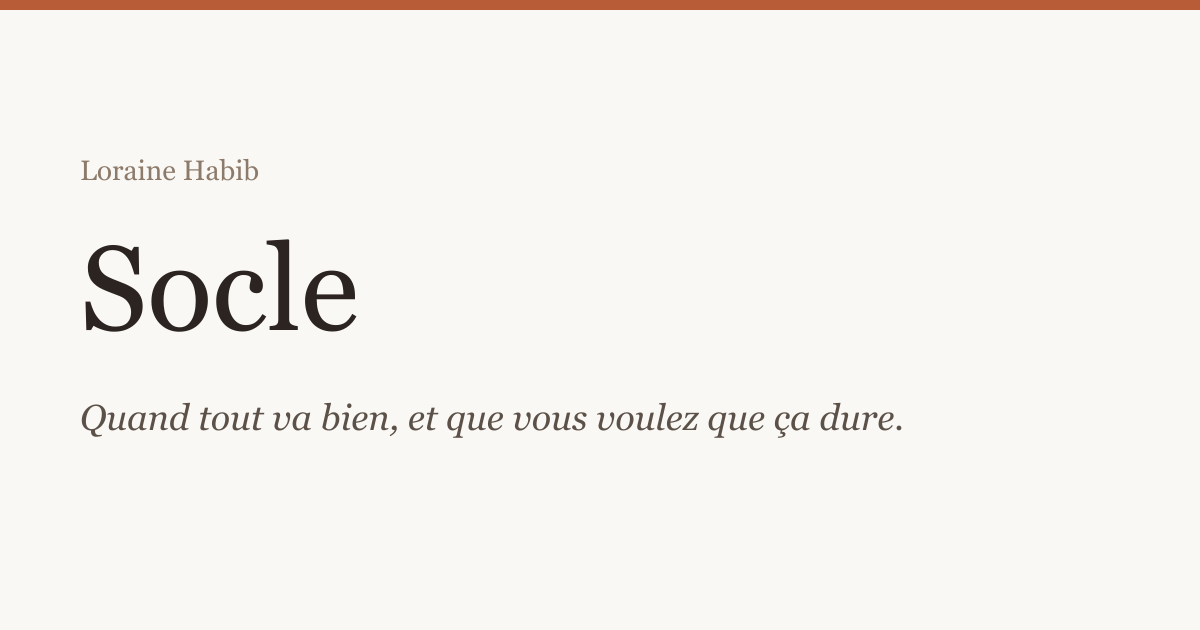
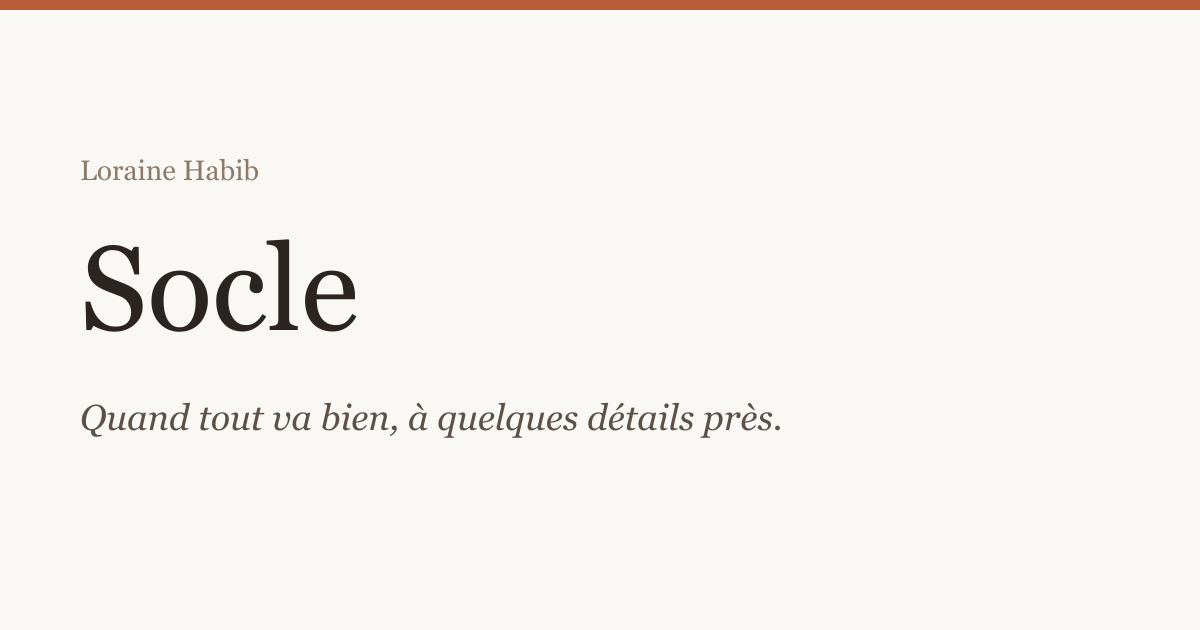
bug fix

Changed region(s): [[0.3392, 0.6333, 0.74, 0.6937]]

diff --git a/src/pages/Offres.tsx b/src/pages/Offres.tsx
@@ -178,17 +178,19 @@ const Offres = () => {
                         </li>
                       ))}
                     </ul>
-                    <div className="mt-auto border-t border-border pt-5">
-                      <p className="whitespace-nowrap font-serif text-[30px] font-normal leading-none text-foreground lining-nums">
-                        {offer.price}
-                      </p>
-                      <p className="mt-2 text-[13px] leading-snug text-muted-foreground lining-nums">{offer.priceNote}</p>
-                      <span className="mt-4 inline-flex items-center gap-2 text-[14px] text-accent">
-                        Voir le détail
-                        <span aria-hidden className="transition-transform duration-300 group-hover:translate-x-0.5">
-                          →
+                    <div className="mt-auto pt-6">
+                      <div className="border-t border-border pt-5">
+                        <p className="whitespace-nowrap font-serif text-[30px] font-normal leading-none text-foreground lining-nums">
+                          {offer.price}
+                        </p>
+                        <p className="mt-2 text-[13px] leading-snug text-muted-foreground lining-nums">{offer.priceNote}</p>
+                        <span className="mt-4 inline-flex items-center gap-2 text-[14px] text-accent">
+                          Voir le détail
+                          <span aria-hidden className="transition-transform duration-300 group-hover:translate-x-0.5">
+                            →
+                          </span>
                         </span>
-                      </span>
+                      </div>
                     </div>
                   </div>
                 </Link>

diff --git a/src/pages/offres/Solo.tsx b/src/pages/offres/Solo.tsx
@@ -5,9 +5,9 @@ const Solo = () => (
   <OfferPage
     name="Solo"
     hook="Quand vous venez seul, pour faire bouger une situation."
-    description="Quand vous venez seul, pour faire bouger une situation. On définit ce qui doit changer, puis on cherche ce qui l'empêche."
+    description="Quand vous venez seul, pour faire bouger une situation. On fixe un objectif concret, puis on cherche ce qui entretient le problème."
     path="/offres/solo/"
-    ogImage="/og/reset.png"
+    ogImage="/og/solo.png"
     facts={[
       { label: "Séances", value: "8 × 1h30" },
       { label: "Durée", value: "4 à 6 mois" },
